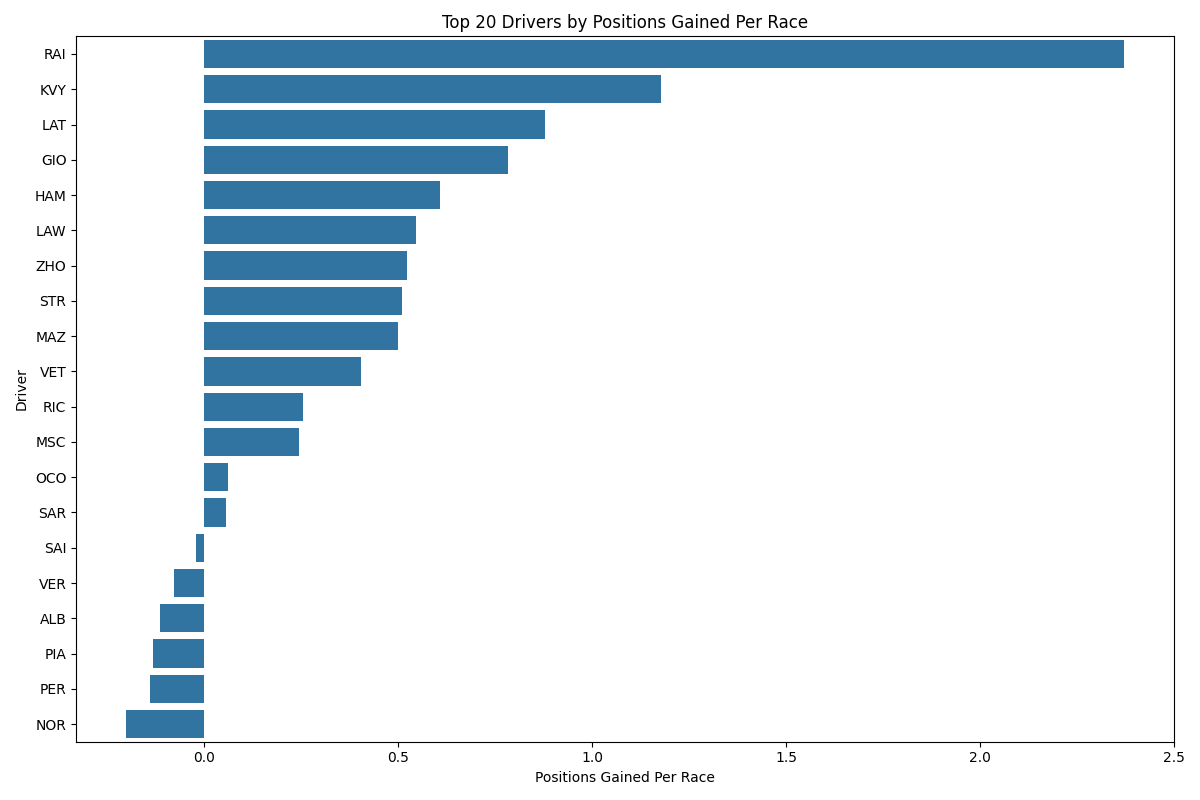
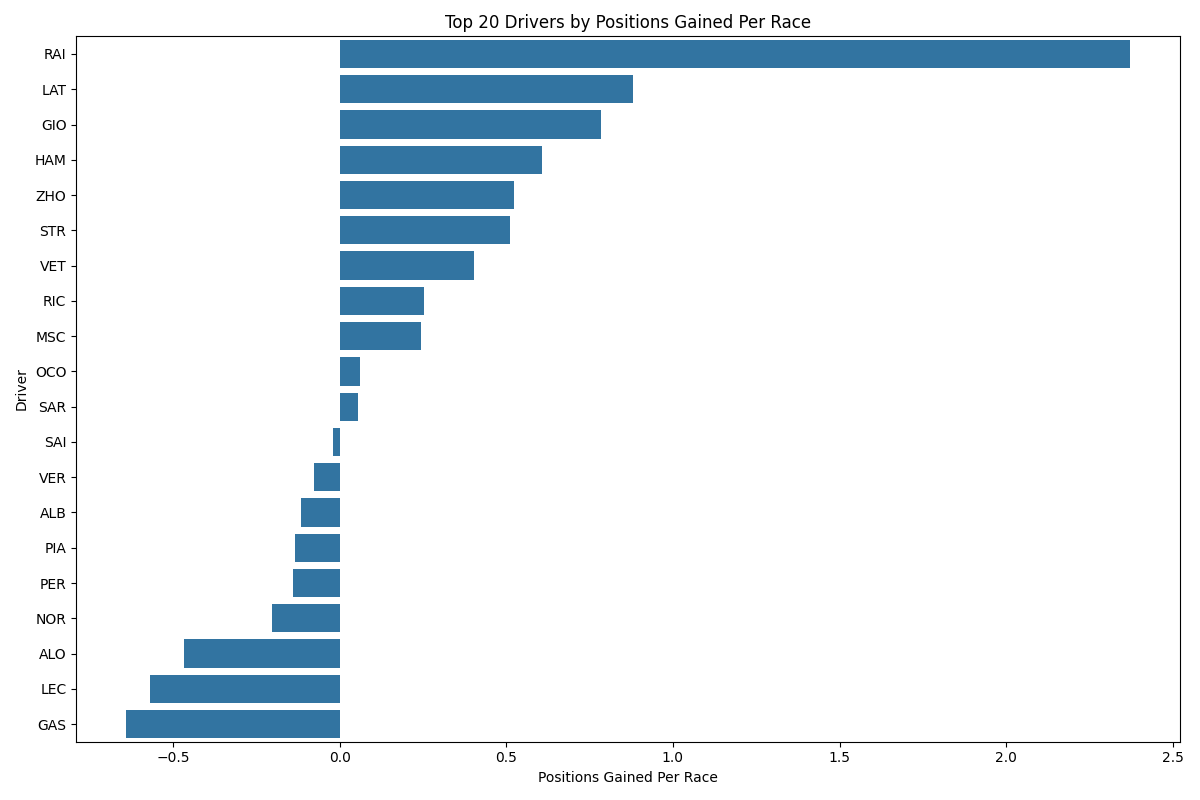
Fix tire management graphs

diff --git a/src/analysis/rank_drivers.py b/src/analysis/rank_drivers.py
@@ -39,13 +39,12 @@ def analyze_best_driver(tire_matrix, weighted=True):
     driver_stats = pd.merge(driver_stats, avg_finish_position_by_driver, on='Driver')
     driver_stats = pd.merge(driver_stats, avg_starting_position_by_driver, on='Driver')
 
-    # Remove drivers where RacesParticipated < 10
-    driver_stats = driver_stats[driver_stats['RacesParticipated'] >= 10].reset_index()
+    # Remove drivers where RacesParticipated < 20
+    driver_stats = driver_stats[driver_stats['RacesParticipated'] >= 20].reset_index()
 
     # Calculate new columns
     driver_stats['PointsPerRace'] = driver_stats['RacePoints'] / driver_stats['RacesParticipated']
     driver_stats['AvgPositionsGained'] = driver_stats['StartingPosition'] - driver_stats['FinishPosition']
-    driver_stats['TireManagementScore'] = -1 * driver_stats['SmoothedDeg']
 
     scaler = MinMaxScaler()
 
@@ -59,24 +58,24 @@ def analyze_best_driver(tire_matrix, weighted=True):
 
     # Normalize other metrics
     normalized_features = pd.DataFrame(
-        scaler.fit_transform(driver_stats[['PointsPerRace', 'AvgPositionsGained', 'TireManagementScore']]),
-        columns=[f"{col}_Normalized" for col in ['PointsPerRace', 'AvgPositionsGained', 'TireManagementScore']]
+        scaler.fit_transform(driver_stats[['PointsPerRace', 'AvgPositionsGained', 'SmoothedDeg']]),
+        columns=[f"{col}_Normalized" for col in ['PointsPerRace', 'AvgPositionsGained', 'SmoothedDeg']]
     )
 
     # Add normalized features to driver stats
-    for col in ['PointsPerRace', 'AvgPositionsGained', 'TireManagementScore']:
+    for col in ['PointsPerRace', 'AvgPositionsGained', 'SmoothedDeg']:
         driver_stats[f"{col}_Normalized"] = normalized_features[f"{col}_Normalized"]
 
     # Apply weights to different metrics if weighted is True
     weights = {
         'PointsPerRace_Normalized': points_per_race_weight,
-        'TireManagementScore_Normalized': tire_management_score_weight,
+        'SmoothedDeg_Normalized': tire_management_score_weight,
         'StartingPosition_Normalized': starting_position_weight,
         'FinishPosition_Normalized': finish_position_weight,
         'AvgPositionsGained_Normalized': avg_positions_gained_weight
     } if weighted else {col: 0.2 for col in [
         'PointsPerRace_Normalized',
-        'TireManagementScore_Normalized',
+        'SmoothedDeg_Normalized',
         'StartingPosition_Normalized',
         'FinishPosition_Normalized',
         'AvgPositionsGained_Normalized'
@@ -167,7 +166,7 @@ def plot_driver_rankings(ranked_drivers, top_n=10, radar=False):
         # Create radar charts for top drivers
         metrics = [
             'PointsPerRace_Normalized',
-            'TireManagementScore_Normalized',
+            'SmoothedDeg_Normalized',
             'StartingPosition_Normalized',
             'FinishPosition_Normalized',
             'AvgPositionsGained_Normalized'

diff --git a/README.md b/README.md
@@ -148,8 +148,8 @@ F1Insights/
 
 ## Insights
 
-- **Verstappen dominance**: Max Verstappen (VER) leads the rankings with the highest composite score and points per race
-- **Tire management**: Lewis Hamilton (HAM) shows excellent tire management with low degradation
+- **Verstappen dominance**: Max Verstappen leads the rankings with the highest composite score. This is due to him leading in Points Per Race, Average Starting Position, and Average Finishing Poisition
+- **Tire management**: Lewis Hamilton shows excellent tire management with low degradation
 - **Position gains**: Hamilton also excels at gaining positions during races
 - **Model findings**: Random Forest models demonstrate strong training performance but show signs of overfitting
   compared to Ridge Regression
